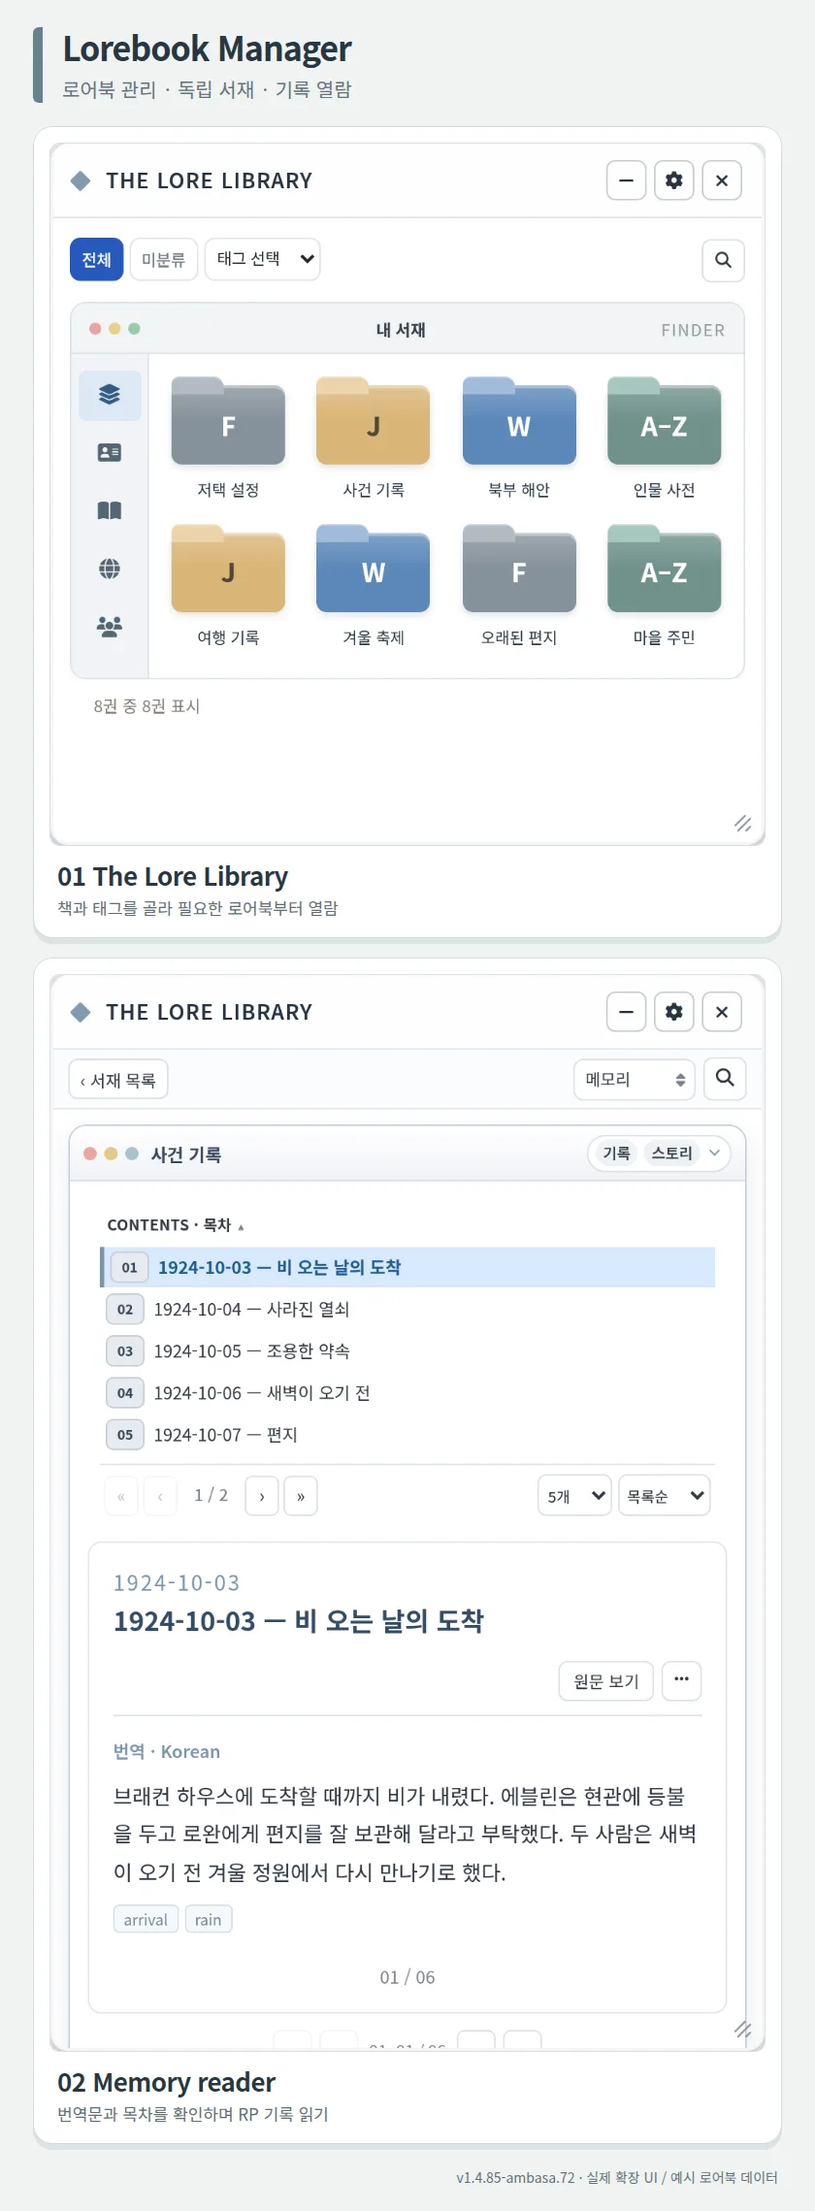
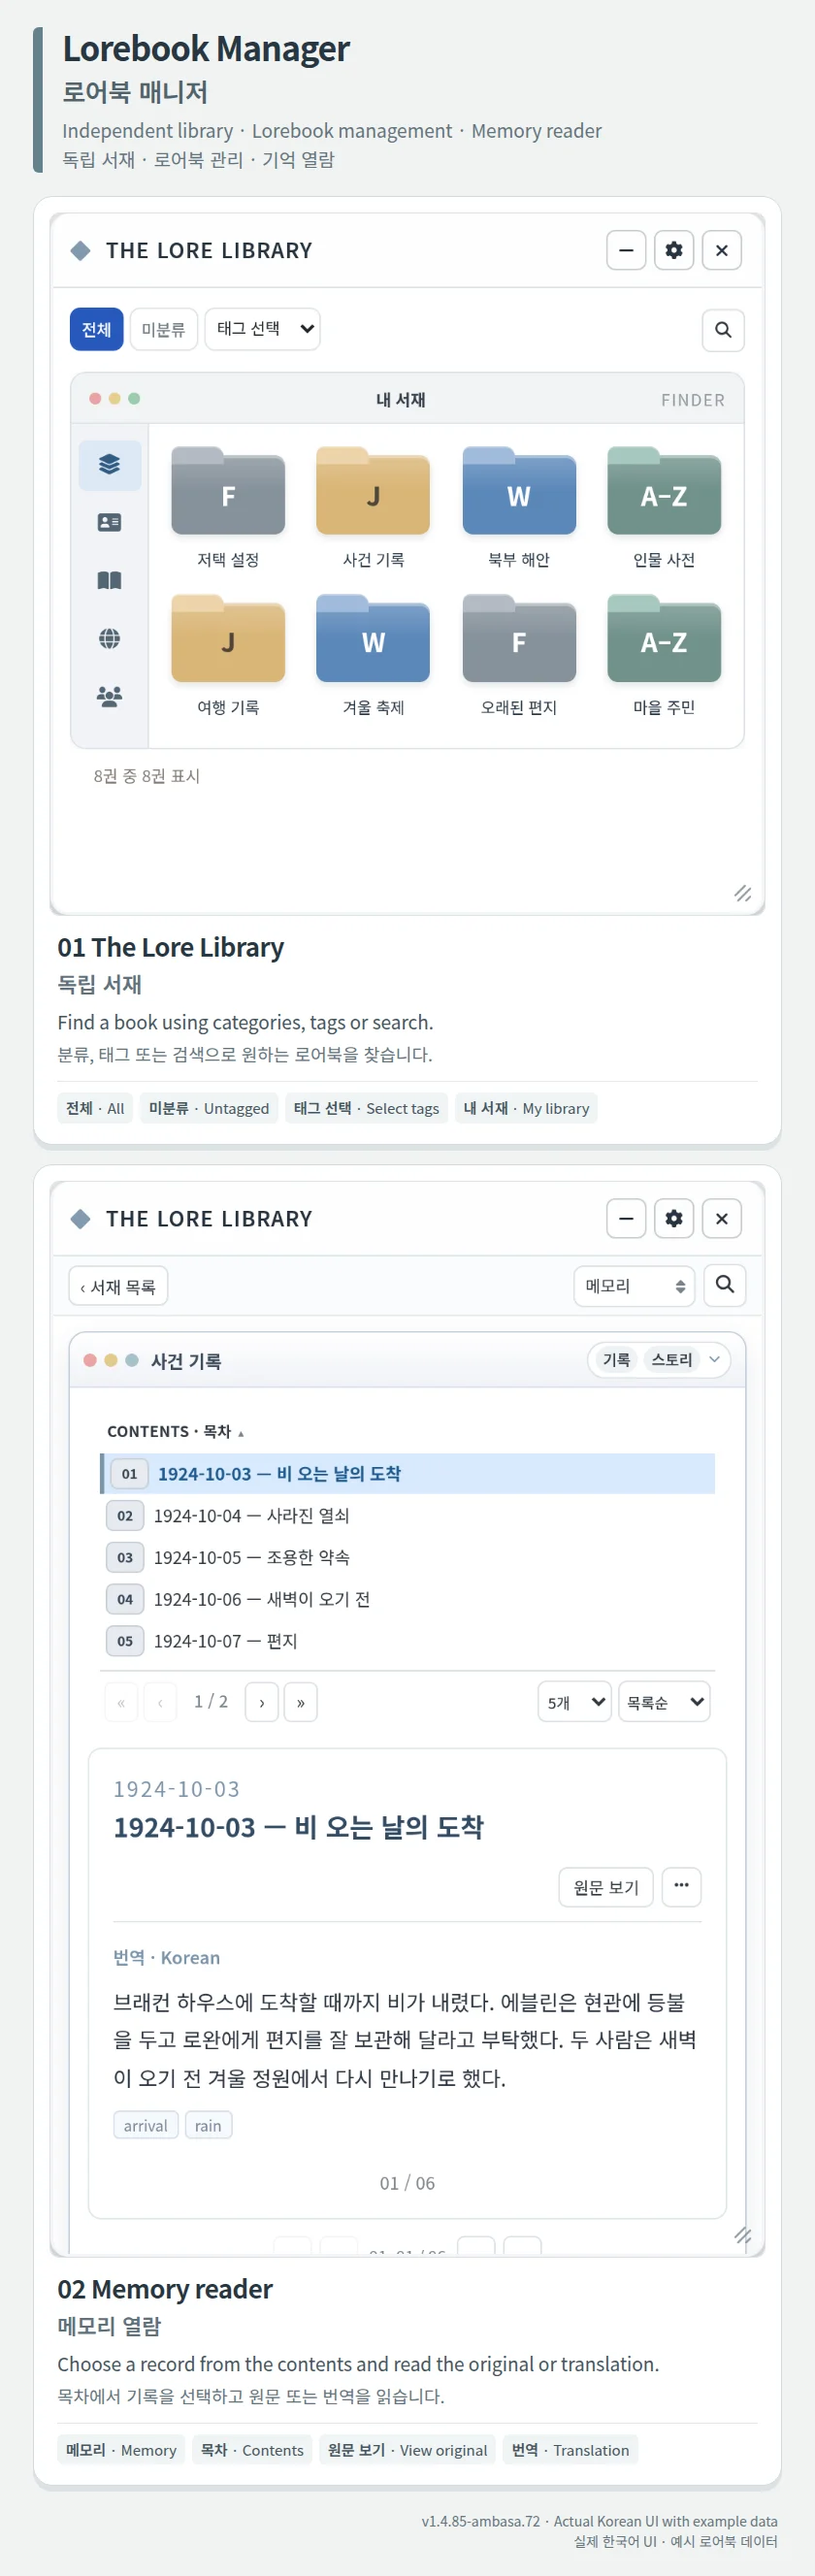
docs: add bilingual screenshot captions and clarify author permission

diff --git a/README.md b/README.md
@@ -1,8 +1,8 @@
 # 📚 Lorebook Manager — AmbasaS2 fork
 
-A personal adaptation of **[Lorebook Manager (로어북 매니저) by 담은 / foreverharibo-boop](https://github.com/foreverharibo-boop/lore-manager)** for SillyTavern.
+A personal adaptation of **[Lorebook Manager (로어북 매니저)](https://github.com/foreverharibo-boop/lore-manager)** for SillyTavern, made with the original author's permission.
 
-The original extension provides the foundation for lorebook editing, translation, token statistics and backups. This fork retains that foundation and adds an independent reading library, alternative display modes and changes suited to my own resource-constrained setup. It is not an official update or a replacement recommendation for the original project.
+The original extension provides the foundation for lorebook editing, translation, token statistics and backups. This fork retains that foundation and adds an independent reading library, alternative display modes and changes suited to my own resource-constrained setup. It is maintained separately to suit my own setup, rather than intended to replace the original project.
 
 **Current version:** 1.4.85-ambasa.72 · Based on upstream 1.4.85
 
@@ -99,10 +99,10 @@ These choices address my own usage pattern; they do not guarantee better perform
 ## Credits and license
 
 Original project: **로어북 매니저 / Lorebook Manager**  
-Original author and copyright: **© 2026 담은 (foreverharibo-boop)**  
-Original source: https://github.com/foreverharibo-boop/lore-manager
+Original author and copyright: see the preserved [NOTICE](NOTICE).  
+Original source: [Lorebook Manager](https://github.com/foreverharibo-boop/lore-manager)
 
-This is an unofficial adaptation maintained by AmbasaS2. Thank you to the original author for sharing the extension and making this work possible.
+This fork is maintained by AmbasaS2 with the original author's permission. Thank you to the original author for sharing the extension and allowing me to adapt it.
 
 Licensed under **AGPL-3.0-only**. See [LICENSE](LICENSE) and [NOTICE](NOTICE). The original README is preserved in [docs/UPSTREAM_README.md](docs/UPSTREAM_README.md), and changes to this fork are recorded in [AMBASA_FORK_NOTES.md](AMBASA_FORK_NOTES.md). The original author's request to keep public forks accessible is a voluntary request; applicable AGPL obligations remain unchanged.
 
@@ -110,7 +110,7 @@ Licensed under **AGPL-3.0-only**. See [LICENSE](LICENSE) and [NOTICE](NOTICE). T
 
 # 📚 로어북 매니저 — AmbasaS2 포크
 
-담은(foreverharibo-boop)님의 **[로어북 매니저](https://github.com/foreverharibo-boop/lore-manager)** 를 개인 사용 환경에 맞춰 수정한 비공식 포크입니다. 원작의 편집·번역·토큰 계산·백업 기능을 기반으로 독립 서재와 표시 방식, 번역 저장 구조 등을 추가하고 조정했습니다.
+원작자님의 허락을 받아 **[로어북 매니저](https://github.com/foreverharibo-boop/lore-manager)** 를 제 사용 환경에 맞춰 수정한 포크입니다. 원작의 편집·번역·토큰 계산·백업 기능을 기반으로 독립 서재와 표시 방식, 번역 저장 구조 등을 추가하고 조정했습니다.
 
 **현재 버전:** 1.4.85-ambasa.72 (원작 1.4.85 기반)
 
@@ -221,12 +221,12 @@ Licensed under **AGPL-3.0-only**. See [LICENSE](LICENSE) and [NOTICE](NOTICE). T
 ## 원작자 및 라이선스
 
 - 원작: **로어북 매니저**
-- 원작자: **담은 (foreverharibo-boop), © 2026**
-- 원작 저장소: https://github.com/foreverharibo-boop/lore-manager
+- 원작자 및 저작권: 원작자님 ([NOTICE](NOTICE)의 기존 저작권 고지 참조)
+- 원작 저장소: [로어북 매니저](https://github.com/foreverharibo-boop/lore-manager)
 - 포크 관리: AmbasaS2
 
-이 확장의 기반을 만들어 공개해 주신 담은님께 감사드립니다. 원작과 별개의 개인 환경 맞춤 포크이며 공식 후속 버전이 아닙니다.
+이 확장의 기반을 만들어 공개해 주시고 수정과 공개를 허락해 주신 원작자님께 감사드립니다. 원작과 별도로 관리하는 개인 환경 맞춤 포크입니다.
 
 **AGPL-3.0-only** 라이선스를 따릅니다. [LICENSE](LICENSE)와 [NOTICE](NOTICE)를 확인해 주세요. [원작 README](docs/UPSTREAM_README.md)는 원문 그대로 보존했으며, 포크의 수정 이력은 [AMBASA_FORK_NOTES.md](AMBASA_FORK_NOTES.md)에 기록되어 있습니다. 공개 포크 유지에 관한 원작자의 요청은 자발적인 요청이며 AGPL의 의무는 그대로 적용됩니다.
 
-*안내 이미지는 실제 확장 화면을 예시 로어북 데이터로 렌더링한 것입니다.*
+*안내 이미지는 실제 한국어 확장 화면을 예시 로어북 데이터로 렌더링한 것이며, 설명 및 주요 UI 용어는 한영 병기로 표기합니다.*
